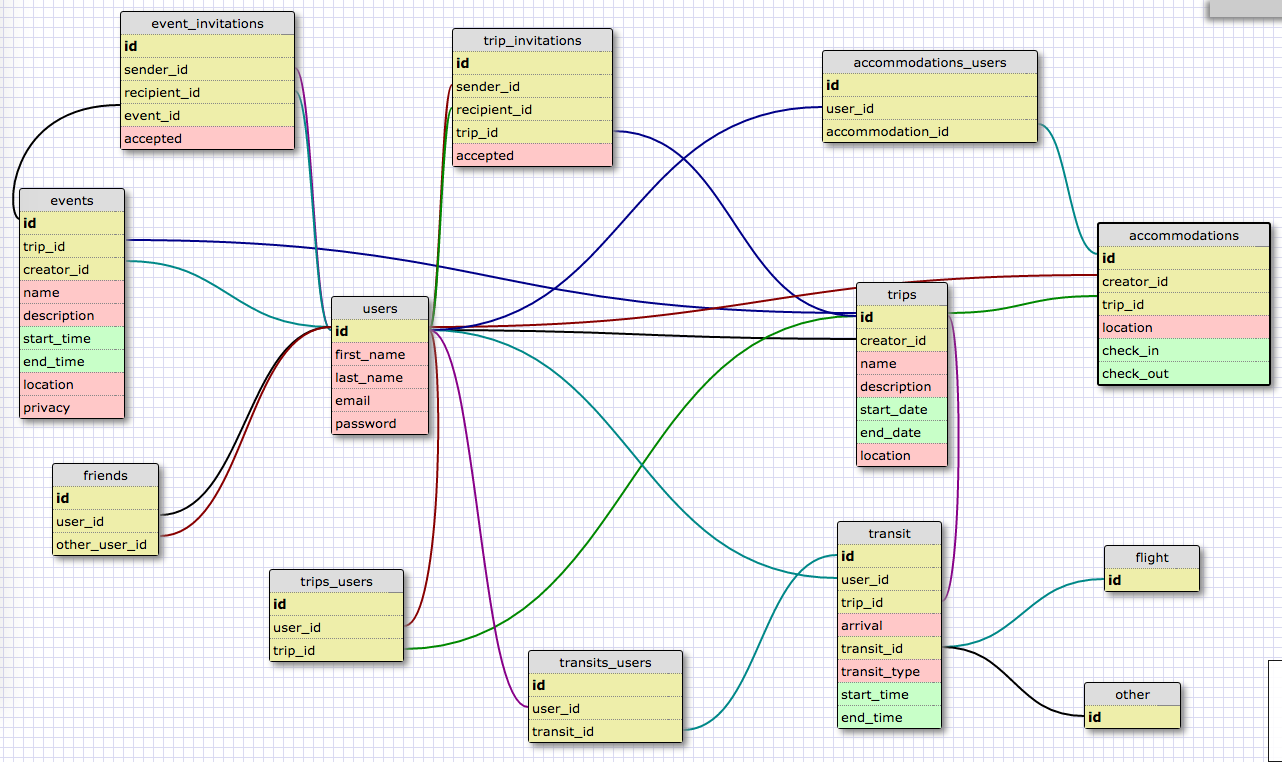
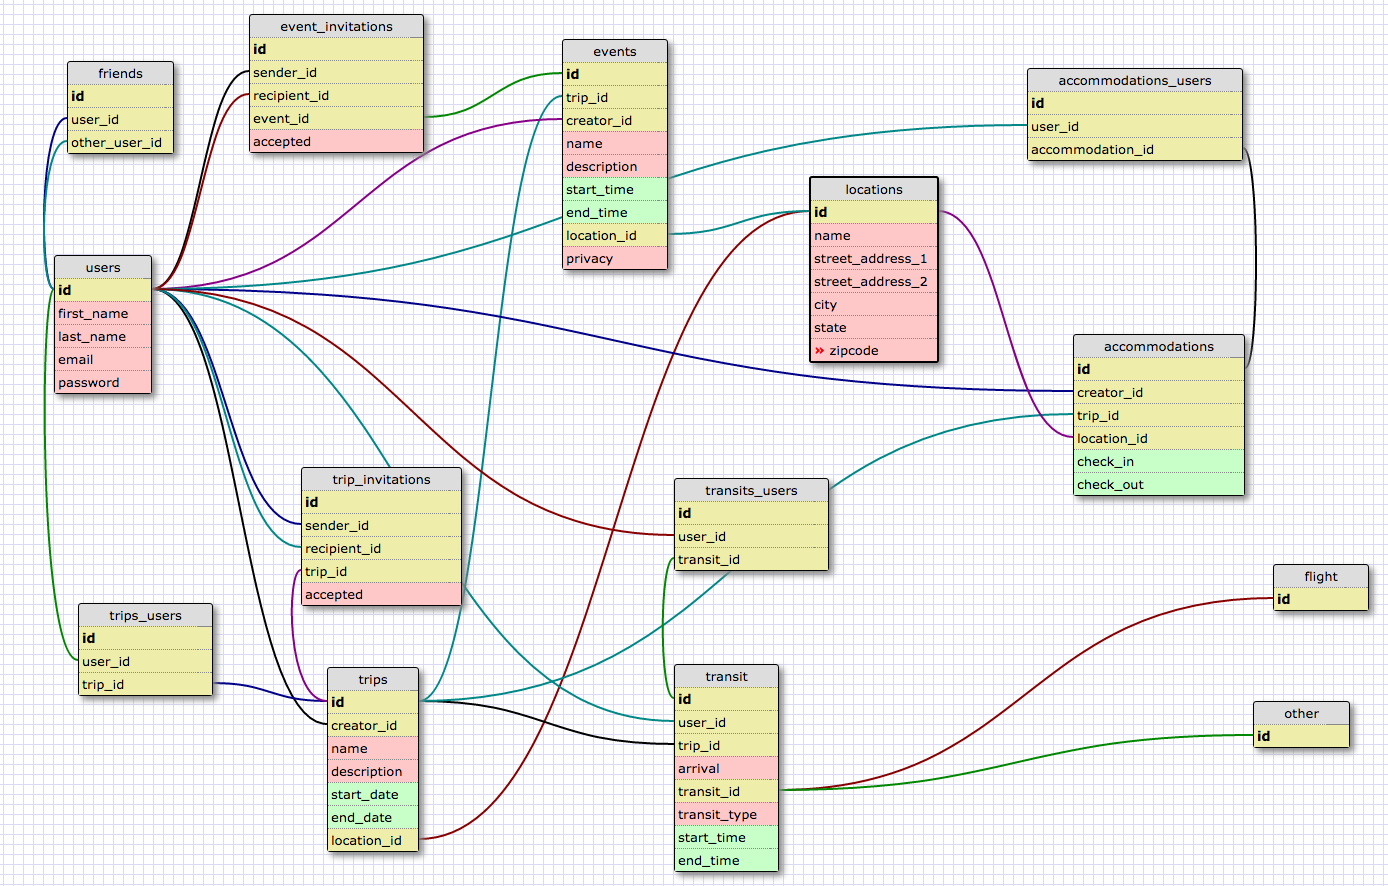
Remove trip_id from Locations; change Location refs in Accommodations, Events, and Trips

diff --git a/db/schema.rb b/db/schema.rb
@@ -18,11 +18,11 @@ ActiveRecord::Schema.define(version: 20160927010502) do
   create_table "accommodations", force: :cascade do |t|
     t.integer  "creator_id"
     t.integer  "trip_id"
-    t.string   "location"
+    t.integer  "location_id"
     t.datetime "check_in"
     t.datetime "check_out"
-    t.datetime "created_at", null: false
-    t.datetime "updated_at", null: false
+    t.datetime "created_at",  null: false
+    t.datetime "updated_at",  null: false
   end
 
   create_table "accommodations_users", force: :cascade do |t|
@@ -46,7 +46,7 @@ ActiveRecord::Schema.define(version: 20160927010502) do
     t.text     "description"
     t.datetime "start_time"
     t.datetime "end_time"
-    t.string   "location"
+    t.integer  "location_id"
     t.boolean  "privacy"
     t.datetime "created_at",  null: false
     t.datetime "updated_at",  null: false
@@ -62,6 +62,17 @@ ActiveRecord::Schema.define(version: 20160927010502) do
     t.integer  "friend_id"
     t.datetime "created_at", null: false
     t.datetime "updated_at", null: false
+  end
+
+  create_table "locations", force: :cascade do |t|
+    t.string   "name"
+    t.string   "street_address_1"
+    t.string   "street_address_2"
+    t.string   "city"
+    t.string   "state"
+    t.string   "zipcode"
+    t.datetime "created_at",       null: false
+    t.datetime "updated_at",       null: false
   end
 
   create_table "other_transits", force: :cascade do |t|
@@ -99,7 +110,7 @@ ActiveRecord::Schema.define(version: 20160927010502) do
     t.text     "description"
     t.datetime "start_date"
     t.datetime "end_date"
-    t.string   "location"
+    t.integer  "location_id"
     t.datetime "created_at",  null: false
     t.datetime "updated_at",  null: false
   end

diff --git a/db/migrate/20160923175200_create_locations.rb b/db/migrate/20160923175200_create_locations.rb
@@ -1,7 +1,6 @@
 class CreateLocations < ActiveRecord::Migration[5.0]
   def change
     create_table :locations do |t|
-      t.integer :trip_id
       t.string :name
       t.string :street_address_1
       t.string :street_address_2
@@ -13,3 +12,4 @@ class CreateLocations < ActiveRecord::Migration[5.0]
     end
   end
 end
+

diff --git a/db/migrate/20160923180147_create_accommodations.rb b/db/migrate/20160923180147_create_accommodations.rb
@@ -3,7 +3,7 @@ class CreateAccommodations < ActiveRecord::Migration[5.0]
     create_table :accommodations do |t|
       t.integer :creator_id
       t.integer :trip_id
-      t.string :location
+      t.integer :location_id
       t.datetime :check_in
       t.datetime :check_out
 

diff --git a/db/migrate/20160923175245_create_events.rb b/db/migrate/20160923175245_create_events.rb
@@ -7,7 +7,7 @@ class CreateEvents < ActiveRecord::Migration[5.0]
       t.text :description
       t.datetime :start_time
       t.datetime :end_time
-      t.string :location
+      t.integer :location_id
       t.boolean :privacy
 
       t.timestamps

diff --git a/db/migrate/20160923175201_create_trips.rb b/db/migrate/20160923175201_create_trips.rb
@@ -6,7 +6,7 @@ class CreateTrips < ActiveRecord::Migration[5.0]
       t.text :description
       t.datetime :start_date
       t.datetime :end_date
-      t.string :location
+      t.integer :location_id
 
       t.timestamps
     end

diff --git a/spec/factories/events.rb b/spec/factories/events.rb
@@ -6,7 +6,7 @@ FactoryGirl.define do
     description "MyText"
     start_time "2016-09-23 10:52:45"
     end_time "2016-09-23 10:52:45"
-    location "MyString"
-    private false
+    location_id 1
+    privacy false
   end
 end

diff --git a/spec/factories/locations.rb b/spec/factories/locations.rb
@@ -1,0 +1,10 @@
+FactoryGirl.define do
+  factory :location do
+    name "MyString"
+    street_address_1 "MyString"
+    street_address_2 "MyString"
+    city "MyString"
+    state "MyString"
+    zipcode "MyString"
+  end
+end

diff --git a/spec/factories/accommodations.rb b/spec/factories/accommodations.rb
@@ -2,7 +2,7 @@ FactoryGirl.define do
   factory :accommodation do
     creator_id 1
     trip_id 1
-    location "MyString"
+    location_id 1
     check_in "2016-09-23 11:01:47"
     check_out "2016-09-23 11:01:47"
   end

diff --git a/spec/factories/trips.rb b/spec/factories/trips.rb
@@ -5,6 +5,6 @@ FactoryGirl.define do
     description "MyText"
     start_date "2016-09-23 10:54:34"
     end_date "2016-09-23 10:54:34"
-    location "MyString"
+    location_id 1
   end
 end

diff --git a/app/models/accommodation.rb b/app/models/accommodation.rb
@@ -1,5 +1,6 @@
 class Accommodation < ApplicationRecord
   has_and_belongs_to_many :users
   belongs_to :trip
+  belongs_to :location
   belongs_to :creator, class_name: "User"
 end

diff --git a/app/models/event.rb b/app/models/event.rb
@@ -1,5 +1,5 @@
 class Event < ApplicationRecord
   belongs_to :creator, class_name: "User"
   has_many :event_invitations
-  belongs_to :trip
+  belongs_to :location
 end

diff --git a/app/models/trip.rb b/app/models/trip.rb
@@ -5,4 +5,5 @@ class Trip < ApplicationRecord
   has_many :events
   has_many :accommodations
   has_many :transits
+  belongs_to :location
 end
